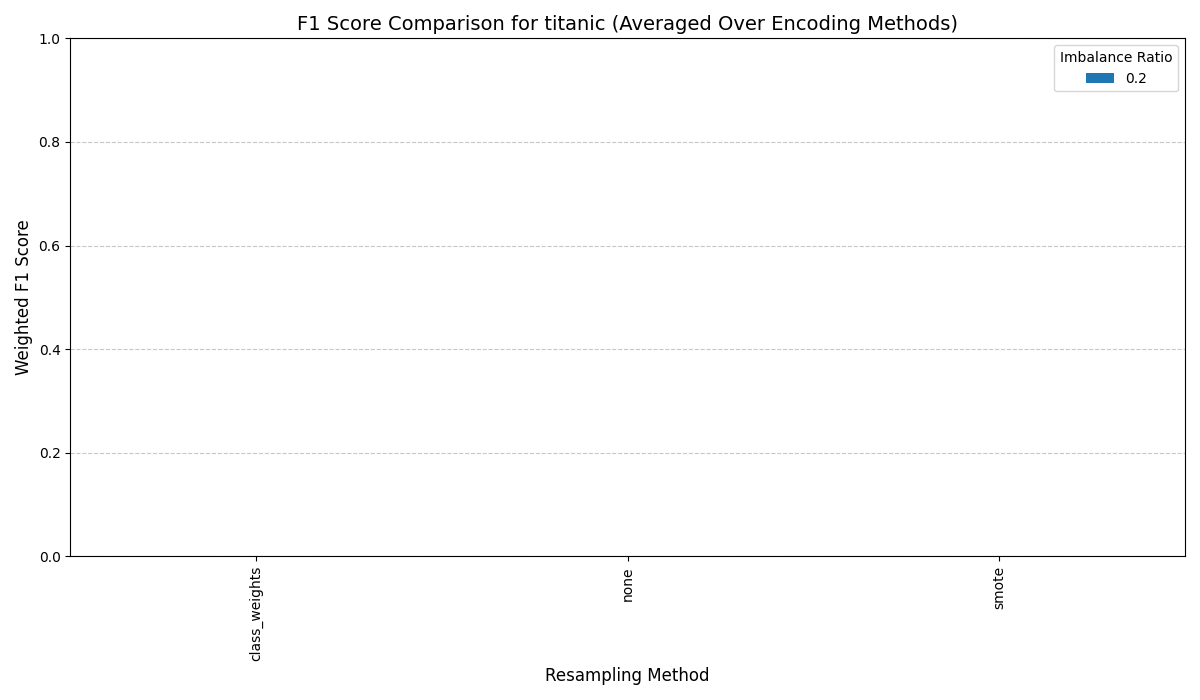
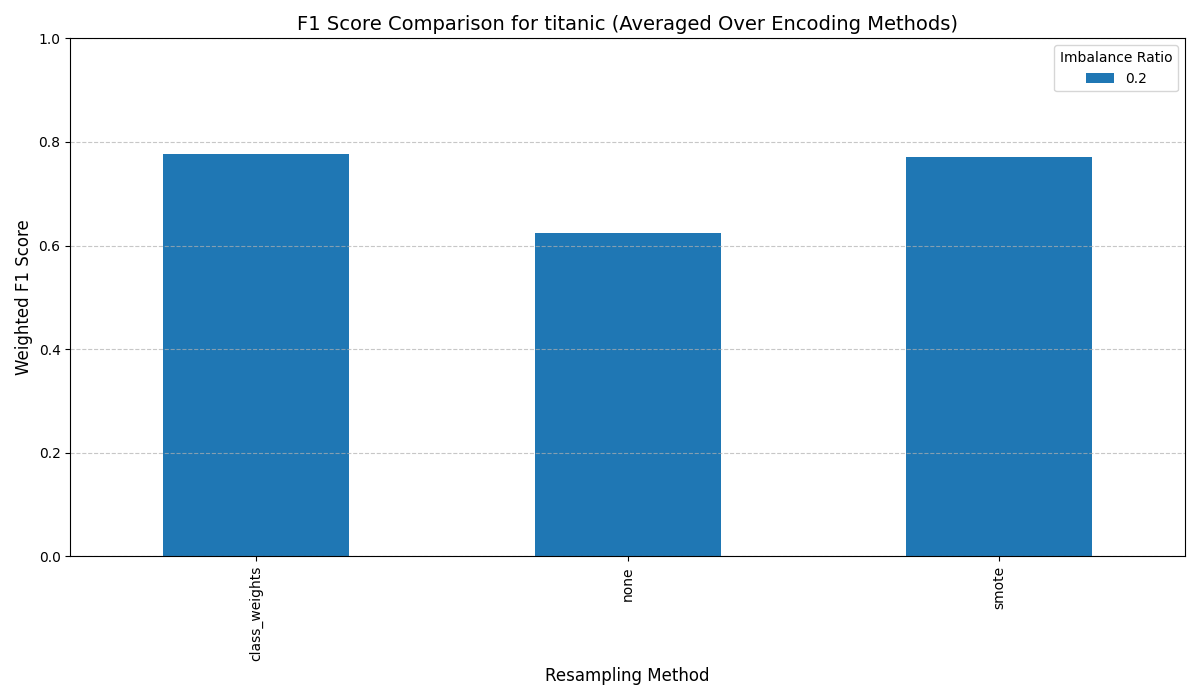
what

Changed region(s): [[0.74, 0.21, 0.925, 0.81], [0.1233, 0.21, 0.3083, 0.81], [0.4317, 0.33, 0.6167, 0.81]]

diff --git a/SupportFunctions/cross_val.py b/SupportFunctions/cross_val.py
@@ -18,41 +18,30 @@ def run_cross_validation(dataset, target_column, encoding_method, method, imbala
                          n_folds, seed, random_state):
     """
     Run k-fold cross validation for a given configuration on a dataset.
-    
-    Performs:
-      1. Preprocessing with DatasetPreprocessor.
-      2. Splitting the data into k folds using StratifiedKFold.
-      3. For each fold:
-         - Introduces imbalance via ImbalanceHandler.
-         - Optionally applies archetypal analysis (if applicable).
-         - Trains and evaluates a model using ModelTrainer.
-      4. Aggregates the classification reports by averaging metrics.
-      
-    Returns:
-        pd.DataFrame: The aggregated (averaged) classification report.
     """
     # Preprocess the dataset.
     preprocessor = DatasetPreprocessor(dataset, target_column=target_column, 
                                        encoding_method=encoding_method, random_state=random_state)
-    X_full = preprocessor.dataset.drop(columns=[preprocessor.target_column])
-    Y_full = preprocessor.dataset[preprocessor.target_column]
 
-    # Set up stratified k-fold splitting.
+    # Use encoded data
+    X_full = pd.concat([preprocessor.x_train, preprocessor.x_test], ignore_index=True)
+    Y_full = pd.concat([preprocessor.y_train, preprocessor.y_test], ignore_index=True)
+
+    # Stratified K-Fold setup
     skf = StratifiedKFold(n_splits=n_folds, shuffle=True, random_state=seed)
     fold_reports = []
 
     for train_index, val_index in skf.split(X_full, Y_full):
-        # Create training and validation splits.
         x_train_fold = X_full.iloc[train_index]
         y_train_fold = Y_full.iloc[train_index]
         x_val_fold = X_full.iloc[val_index]
         y_val_fold = Y_full.iloc[val_index]
 
-        # Introduce imbalance on training data.
+        # Introduce imbalance
         ih = ImbalanceHandler(x_train_fold, y_train_fold, imbalance_ratio, random_state=seed)
         x_train_fold, y_train_fold = ih.introduce_imbalance()
 
-        # Optionally, if method requires and archetypes are used, perform archetypal analysis.
+        # Apply archetypes if needed
         if method in ["smote", "adasyn"] and use_archetypes:
             if "archetype_proportion" in archetype_setting:
                 archetypes = find_minority_archetypes(x_train_fold, y_train_fold,
@@ -60,7 +49,7 @@ def run_cross_validation(dataset, target_column, encoding_method, method, imbala
             else:
                 archetypes = find_minority_archetypes(x_train_fold, y_train_fold,
                                                       n_archetypes=archetype_setting.get("n_archetypes", 10))
-            
+
             if "sample_percentage" in minority_sample_setting:
                 x_train_fold, y_train_fold = merge_archetypes_with_minority(
                     x_train_fold, y_train_fold, archetypes,
@@ -74,24 +63,16 @@ def run_cross_validation(dataset, target_column, encoding_method, method, imbala
                     random_state=seed
                 )
 
-        # Train and evaluate the model on the current fold.
+        # Model training and evaluation
         trainer = ModelTrainer(x_train_fold, y_train_fold, x_val_fold, y_val_fold, random_state=random_state)
         report = trainer.train_and_evaluate(method=method)
         fold_reports.append(report)
 
-    # Aggregate the fold reports by averaging the metrics.
-    aggregated_report = aggregate_fold_reports(fold_reports)
-    return aggregated_report
+    return aggregate_fold_reports(fold_reports)
 
 def aggregate_fold_reports(reports):
     """
     Aggregates classification reports from each fold by averaging numeric metrics.
-    
-    Args:
-        reports (list): List of pandas DataFrames, each a classification report.
-    
-    Returns:
-        pd.DataFrame: The aggregated (averaged) classification report.
     """
     aggregated = pd.concat(reports, axis=0)
     aggregated = aggregated.groupby(aggregated.index).mean()
@@ -99,33 +80,20 @@ def aggregate_fold_reports(reports):
 
 def run_experiment(config):
     """
-    Runs the entire experiment across a grid of parameter combinations using cross-validation,
-    with parallel processing via joblib.
-    
-    The function:
-      1. Loads the selected datasets using load_datasets.
-      2. Creates a list of job configurations representing each unique combination of parameters.
-      3. Processes each job in parallel (using Parallel/delayed) by calling run_cross_validation.
-      4. Attaches identifying metadata (e.g., dataset name, method, imbalance ratio, etc.) to each result.
-      5. Aggregates and cleans the results via clean_results, prints debug output, and saves the final DataFrame.
-    
-    Returns:
-        pd.DataFrame: The cleaned DataFrame of experiment results.
+    Runs the entire experiment across a grid of parameter combinations using cross-validation.
     """
-    # Load only the selected datasets.
     all_datasets = load_datasets(config.get("dataset_folder", "datasets"),
                                  selected_datasets=config.get("selected_datasets", []))
     print(f"[DEBUG] Loaded datasets: {list(all_datasets.keys())}")
 
-    # Build a list of job configurations.
     jobs = []
     n_iterations = config.get("n_iterations", 1)
     use_archetypes = config.get("use_archetypes", [True])
     if not isinstance(use_archetypes, list):
         use_archetypes = [use_archetypes]
-        
+
     for iteration in range(1, n_iterations + 1):
-        seed = iteration  # Sequential seeding.
+        seed = iteration
         for use_arch in use_archetypes:
             for dataset_name, dataset in all_datasets.items():
                 for enc in config.get("encoding_methods", ["onehot"]):
@@ -149,7 +117,6 @@ def run_experiment(config):
                                         }
                                         jobs.append(job_config)
 
-    # Define a helper function for processing a single job.
     def process_job(job_config):
         target_column = config.get("target_column") or job_config["dataset"].columns[0]
         try:
@@ -166,7 +133,7 @@ def run_experiment(config):
                 seed=job_config["seed"],
                 random_state=job_config["random_state"]
             )
-            result = {
+            return {
                 "classification_report": cv_report,
                 "dataset": job_config["dataset_name"],
                 "encoding_method": job_config["encoding_method"],
@@ -177,7 +144,6 @@ def run_experiment(config):
                 "use_archetypes": job_config["use_archetypes"],
                 "iteration_seed": job_config["seed"]
             }
-            return result
         except Exception as e:
             return {
                 "classification_report": None,
@@ -192,20 +158,16 @@ def run_experiment(config):
                 "error": str(e)
             }
 
-    # Process jobs in parallel.
     results = Parallel(n_jobs=config.get("n_jobs", -1))(
         delayed(process_job)(job) for job in jobs
     )
 
-    # Clean and aggregate the results.
     results_df = clean_results(results)
 
-    # DEBUG: Print a sample of the cleaned results.
     print("DEBUG: Cleaned Experiment Results (first 5 rows):")
     print(results_df.head())
     print("DEBUG: Cleaned Results Columns:", results_df.columns.tolist())
 
-    # Save the final results.
     dump(results_df, config.get("results_file", "experiment_results.pkl"))
     print("Experiment results saved to '{}'".format(config.get("results_file", "experiment_results.pkl")))
 

diff --git a/display.py b/display.py
@@ -1,5 +1,3 @@
-# display.py
-
 from joblib import load
 import os
 from SupportFunctions.visualizer import (
@@ -27,12 +25,11 @@ if os.path.exists(results_file):
         print(f"Error: {e}")
         print("\nColumn names available:", loaded_results_df.columns)
     
-    # Generate and save graphs. The save_fig parameter ensures that plots are saved into the 'graphs' folder.
     plot_f1_scores(loaded_results_df, save_fig=True)
-    plot_f1_by_encoding(loaded_results_df, save_fig=True)
-    plot_f1_by_archetype_setting(loaded_results_df, save_fig=True)
-    plot_f1_by_minority_sample_setting(loaded_results_df, save_fig=True)
-    plot_f1_by_use_of_archetypes(loaded_results_df, save_fig=True)
+    # plot_f1_by_encoding(loaded_results_df, save_fig=True)
+    # plot_f1_by_archetype_setting(loaded_results_df, save_fig=True)
+    # plot_f1_by_minority_sample_setting(loaded_results_df, save_fig=True)
+    # plot_f1_by_use_of_archetypes(loaded_results_df, save_fig=True)
 
 else:
     print(f"Results file '{results_file}' not found. Please run runner.py first to generate experiment results.")

diff --git a/runner.py b/runner.py
@@ -1,19 +1,19 @@
-from engine import run_experiment
+from SupportFunctions.cross_val import run_experiment
 
 if __name__ == "__main__":
     config = {
         "dataset_folder": "datasets",
-        "selected_datasets": ["titanic"],  # Only load the Titanic dataset.
+        "selected_datasets": ["titanic"],
         "methods": ["none", "smote", "class_weights"],
-        # Other options: "adasyn", "random_undersampling" (if applicable)
+        # Model compatability: "adasyn", "random_undersampling" (if applicable)
         "imbalance_ratios": [0.2],
-        "encoding_methods": ["onehot"],  # Alternatives: "ordinal"
+        "encoding_methods": ["onehot"], # or ordinal
         "use_archetypes": [True],
         "archetype_settings": [{"archetype_proportion": 0.2}],
         "minority_sample_settings": [{"sample_percentage": 0.5}],
         "n_iterations": 10,
         "n_folds": 5,
-        "n_jobs": -1,  # Parallel processing flag (if enabled in engine.py)
+        "n_jobs": -1,
         "random_state": 42,
         "results_file": "experiment_results.pkl"
     }
